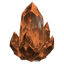
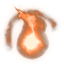
Clã: próximo nível em ícones tenho/preciso no menu (igual ao painel) e Fragmento de Alma como fumaça espiritual
Claude-Session: https://claude.ai/code/session_01P1kkg6XhMxiq3nu6A35Jwq

diff --git a/ferramentas/painel/alma-icone.py b/ferramentas/painel/alma-icone.py
@@ -1,0 +1,69 @@
+# Ícone do Fragmento de Alma (Geada e Chama): uma alma de fumaça espiritual, não cristal (André 2026-11-24: "tá
+# parecendo com cristal, pode confundir... mais fumaçado"). Mesmo tom do painel (escuro -> cor da raça), feito à mão
+# aqui com ruído: núcleo claro, chama de fumaça subindo e fiapos soltos. Sai em godot-prototipo/icones/itens/ (160 px);
+# o icones-painel.py copia para o painel. Rodar: python3 ferramentas/painel/alma-icone.py
+import os
+import numpy as np
+from PIL import Image, ImageFilter
+
+RAIZ = os.path.join(os.path.dirname(__file__), '..', '..')
+OUT = os.path.join(RAIZ, 'godot-prototipo/icones/itens/')
+N = 640  # desenha grande e reduz para 160 (bordas macias)
+
+
+def ruido(rng, n, oitavas=5, base=4):
+    """ruído de valor suavizado, várias oitavas (0..1)"""
+    tot = np.zeros((n, n)); amp = 1.0; soma = 0.0
+    for o in range(oitavas):
+        g = base * 2 ** o
+        grade = rng.random((g + 1, g + 1))
+        im = Image.fromarray((grade * 255).astype(np.uint8)).resize((n, n), Image.BICUBIC)
+        tot += np.asarray(im, float) / 255 * amp; soma += amp; amp *= 0.5
+    return tot / soma
+
+
+def alma(escuro, cor, claro, semente):
+    rng = np.random.default_rng(semente)
+    y, x = np.mgrid[0:N, 0:N] / N  # 0..1, y para baixo
+    sobe = np.clip(1 - y, 0, 1)
+    # redemoinho: gira o espaço em volta do núcleo (mais forte em cima) e ondula com ruído
+    w1, w2 = ruido(rng, N, 5, 3), ruido(rng, N, 5, 3)
+    ang = (w1 - 0.5) * 2.2 + sobe * 1.4
+    dx, dy = x - 0.5, y - 0.62
+    xr = 0.5 + dx * np.cos(ang * 0.35) - dy * np.sin(ang * 0.35)
+    yr = 0.62 + dx * np.sin(ang * 0.35) + dy * np.cos(ang * 0.35)
+    xd = xr + (w2 - 0.5) * 0.10 * (0.4 + sobe)
+    yd = yr
+    # forma de alma: bola embaixo + cauda de fumaça que sobe torcendo até a ponta
+    bola = np.clip(1 - np.hypot((xd - 0.5) / 0.27, (yd - 0.68) / 0.25), 0, 1)
+    t = np.clip((0.70 - yd) / 0.66, 0, 1)  # 0 na bola, 1 na ponta
+    cx = 0.5 + 0.16 * np.sin(t * 4.2 - 0.6) * t
+    meia = 0.25 * (1 - t) ** 1.0 + 0.006
+    cauda = np.clip(1 - np.abs(xd - cx) / meia, 0, 1) * (yd < 0.72) * (yd > 0.03)
+    forma = np.maximum(bola, cauda)
+    # fumaça em fios: ruído "de crista" (|n - 0.5|) faz filamentos claros
+    f = ruido(rng, N, 6, 4)
+    fio = 1 - np.clip(np.abs(ruido(rng, N, 5, 5) - 0.5) * 5.5, 0, 1)
+    dens = forma ** 0.6 * (0.40 + 0.40 * f + 0.45 * fio)
+    # anéis de fumaça soltos em volta (meia-lua que gira com o redemoinho)
+    r = np.hypot((xd - 0.5) / 0.38, (yd - 0.60) / 0.40)
+    anel = np.exp(-((r - 1) / 0.10) ** 2) * np.clip(np.sin(np.arctan2(yd - 0.6, xd - 0.5) * 1.0 + 2.4 + w1 * 2), 0, 1) ** 1.5
+    dens = np.maximum(dens, anel * (0.35 + 0.6 * fio))
+    # núcleo: a alma clara no meio da bola
+    nuc = np.exp(-(((x - 0.5) / 0.12) ** 2 + ((y - 0.67) / 0.12) ** 2))
+    brilho = np.clip(dens * 0.85 + nuc * 1.0, 0, 1)
+    E, C, L = (np.array(Image.new('RGB', (1, 1), c).getpixel((0, 0)), float) for c in (escuro, cor, claro))
+    b = brilho[..., None]
+    rgb = np.where(b < 0.55, E + (C - E) * (b / 0.55), C + (L - C) * ((b - 0.55) / 0.45))
+    alfa = np.clip(dens * 2.0 + nuc, 0, 1)
+    im = Image.fromarray(np.dstack([rgb, alfa[..., None] * 255]).clip(0, 255).astype(np.uint8), 'RGBA')
+    halo = Image.fromarray((np.clip(alfa * 0.6, 0, 1) * 255).astype(np.uint8)).filter(ImageFilter.GaussianBlur(N / 24))
+    h = Image.new('RGBA', (N, N), tuple(int(v) for v in C) + (0,)); h.putalpha(halo)
+    fundo = Image.new('RGBA', (N, N), (0, 0, 0, 0)); fundo.alpha_composite(h); fundo.alpha_composite(im)
+    return fundo.resize((160, 160), Image.LANCZOS)
+
+
+if __name__ == '__main__':
+    alma('#081420', '#7fd3ff', '#f2fbff', 7).save(OUT + 'alma_geada.png', optimize=True)
+    alma('#1a0e08', '#ff8a4a', '#fff1d8', 11).save(OUT + 'alma_chama.png', optimize=True)
+    print('ok', OUT)

diff --git a/ferramentas/painel/icones-painel.py b/ferramentas/painel/icones-painel.py
@@ -1,15 +1,12 @@
 # Ícones dos itens do painel do clã (client/public/painel-icones/): os pintados do jogo (godot-prototipo/icones/itens) em
-# 64 px, e o Fragmento de Alma (o jogo não tem pintura): o cristal na cor da raça. Rodar de novo quando entrar ícone novo.
+# 64 px (o Fragmento de Alma sai do alma-icone.py: fumaça espiritual, não cristal). Rodar de novo quando entrar ícone novo.
 import os
-from PIL import Image, ImageOps
+from PIL import Image
 RAIZ = os.path.join(os.path.dirname(__file__), '..', '..')
 src = os.path.join(RAIZ, 'godot-prototipo/icones/itens/'); out = os.path.join(RAIZ, 'client/public/painel-icones/')
 os.makedirs(out, exist_ok=True)
 for f in sorted(os.listdir(src)):
     if f.endswith('.png') and not f.endswith('_fora.png'):
         Image.open(src + f).convert('RGBA').resize((64, 64), Image.LANCZOS).save(out + f, optimize=True)
-c = Image.open(src + 'cristal.png').convert('RGBA').resize((64, 64), Image.LANCZOS)
-for k, escuro, cor in [('alma_geada', '#081420', '#7fd3ff'), ('alma_chama', '#1a0e08', '#ff8a4a')]:
-    t = ImageOps.colorize(ImageOps.grayscale(c), escuro, cor).convert('RGBA'); t.putalpha(c.split()[3]); t.save(out + k + '.png', optimize=True)
 print(len(os.listdir(out)), 'ícones', sum(os.path.getsize(out + f) for f in os.listdir(out)) // 1024, 'KB')
 print(sorted(f[:-4] for f in os.listdir(out)))
